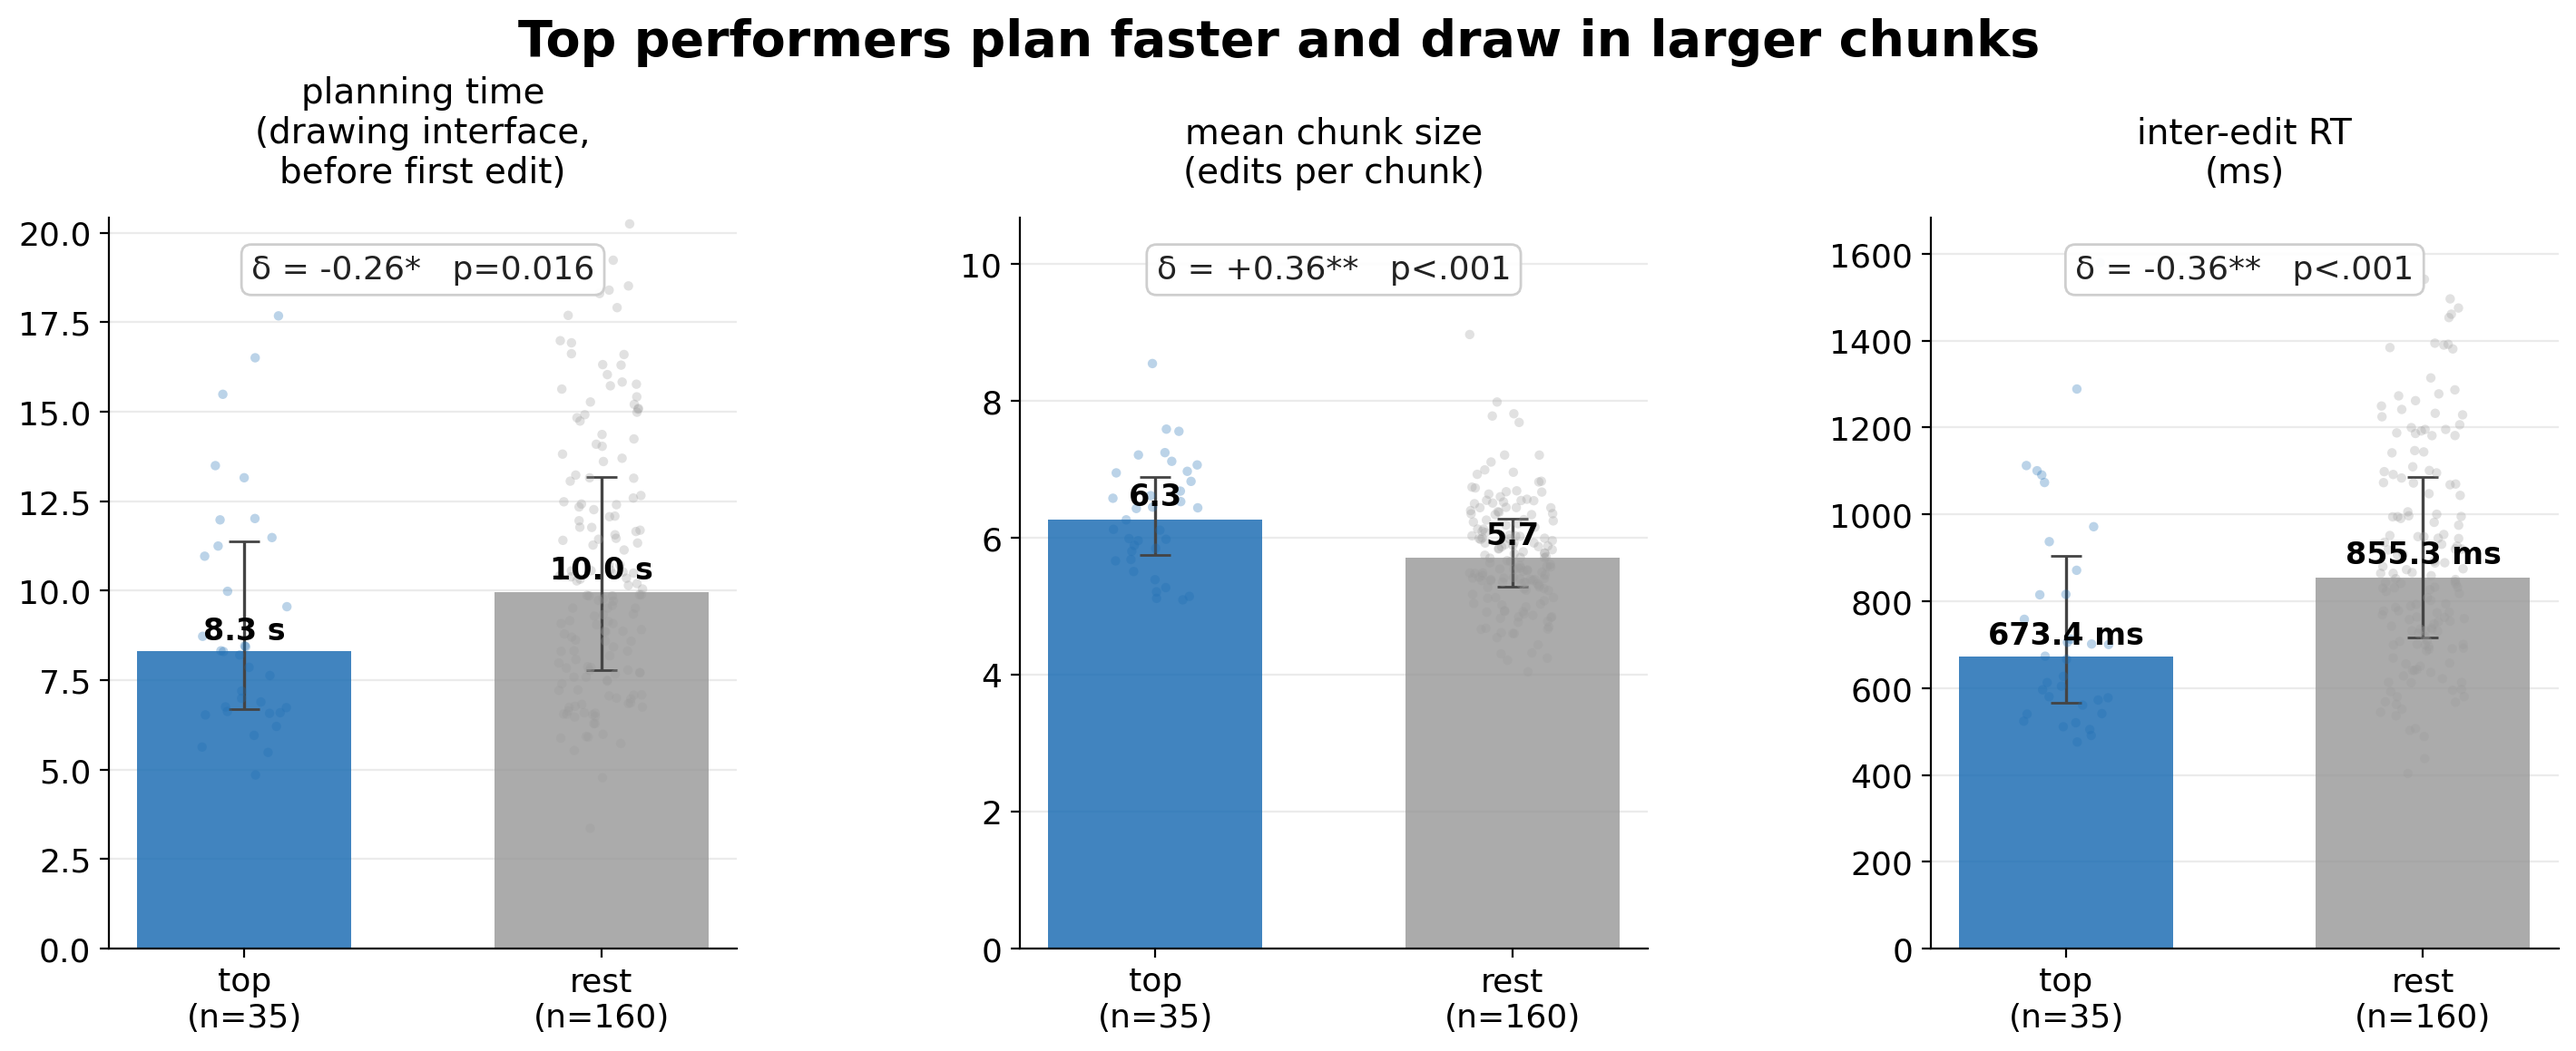
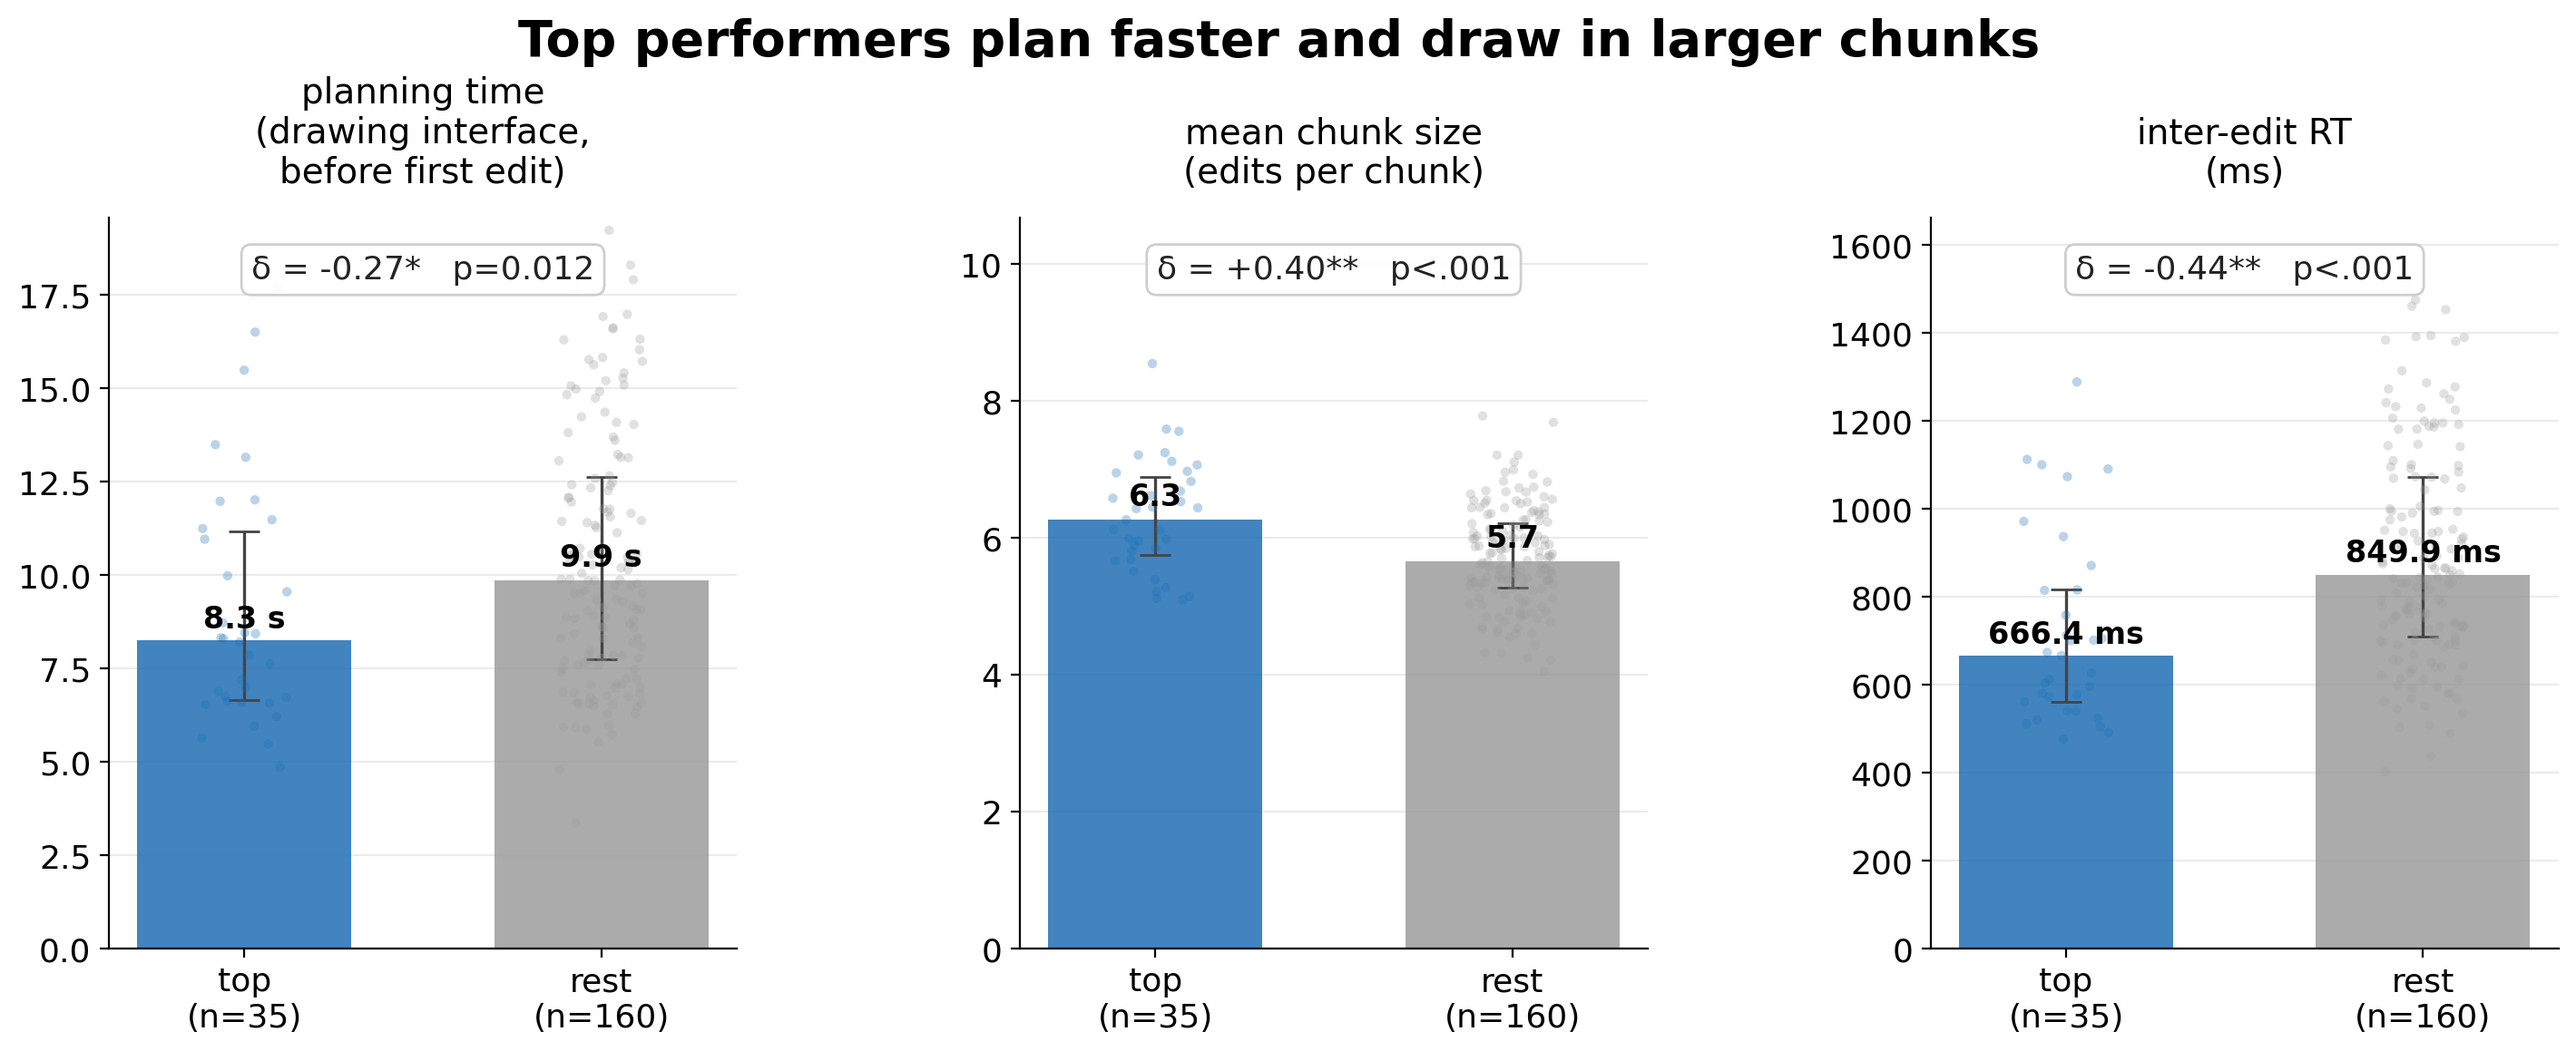
Talk slides: drop Tukey 1.5×IQR outliers from display
Cleaner visuals for both slides; effects unchanged or slightly stronger.

diff --git a/plot_talk_slides.py b/plot_talk_slides.py
@@ -51,6 +51,13 @@ def _cliffs_delta(x: np.ndarray, y: np.ndarray) -> float:
     return (gt - lt) / (len(x) * len(y))
 
 
+def _tukey_keep_mask(x: np.ndarray, k: float = 1.5) -> np.ndarray:
+    """Return mask of values within Tukey's k×IQR fences."""
+    q1, q3 = np.percentile(x, [25, 75])
+    iqr = q3 - q1
+    return (x >= q1 - k * iqr) & (x <= q3 + k * iqr)
+
+
 def _fmt_p(p: float) -> str:
     return "p<.001" if p < 0.001 else f"p={p:.3f}"
 
@@ -94,8 +101,12 @@ def slide_A(df: pd.DataFrame, out_path: str) -> None:
 
     for ax, (col, label, scale) in zip(axes, measures):
         vals = df[col].dropna()
-        x_top  = vals[top.loc[vals.index]].values / scale
-        x_rest = vals[rest.loc[vals.index]].values / scale
+        x_top_raw  = vals[top.loc[vals.index]].values / scale
+        x_rest_raw = vals[rest.loc[vals.index]].values / scale
+
+        # Drop Tukey outliers within each group for plotting + stats
+        x_top  = x_top_raw[_tukey_keep_mask(x_top_raw)]
+        x_rest = x_rest_raw[_tukey_keep_mask(x_rest_raw)]
 
         med_top  = np.median(x_top)
         med_rest = np.median(x_rest)
@@ -171,6 +182,11 @@ def slide_A(df: pd.DataFrame, out_path: str) -> None:
 
 def slide_B(df: pd.DataFrame, out_path: str) -> None:
     sub = df[["size", "mean_rt_median", "top_solver"]].dropna()
+
+    # Drop bivariate Tukey outliers (either axis out of fences)
+    keep = _tukey_keep_mask(sub["size"].values) & _tukey_keep_mask(sub["mean_rt_median"].values)
+    sub  = sub[keep].copy()
+
     top  = sub["top_solver"].astype(bool)
     rest = ~top
 
